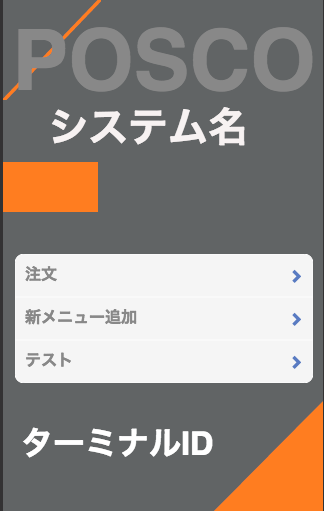
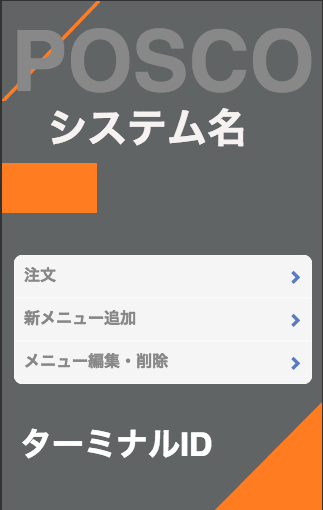
[FEATURE ADD] cuisine editable

diff --git a/TEST_BY_NAT/ModifyMenuController.m b/TEST_BY_NAT/ModifyMenuController.m
@@ -1,0 +1,136 @@
+//
+//  ModifyMenuController.m
+//  TEST_BY_NAT
+//
+//  Created by POSCO on 15/07/01.
+//  Copyright (c) 2015年 POSCO. All rights reserved.
+//
+
+#import "ModifyMenuController.h"
+#import "MyDB.h"
+
+@interface ModifyMenuController ()<UITableViewDataSource, UITableViewDelegate, UIAlertViewDelegate>
+@property (weak, nonatomic) IBOutlet UITableView *list;
+@property NSMutableArray * cusine;
+@property NSInteger selectedRow;
+@end
+
+@implementation ModifyMenuController
+
+// Handle Selected Cell
+- (void)tableView:(UITableView *)tableView didSelectRowAtIndexPath:(NSIndexPath *)indexPath {
+    self.selectedRow = indexPath.row;
+    UIAlertView * alert = [[UIAlertView alloc] initWithTitle:@"処理を選択してください" message:nil delegate:self cancelButtonTitle:@"戻る" otherButtonTitles:@"編集",@"削除", nil];
+    alert.delegate = self;
+    [alert setTag:1];
+    [alert show];
+    
+    
+}
+
+- (void)alertView:(UIAlertView *)alertView didDismissWithButtonIndex:(NSInteger)buttonIndex {
+    NSLog(@"%d", [alertView tag]);
+    switch ([alertView tag]) {
+        /* outter alert */
+        case 1:
+            
+            switch (buttonIndex) {
+                case 0:
+                    break;
+                case 1:
+                {
+                    UIAlertView * alert = [[UIAlertView alloc] initWithTitle:@"新名前を入力してください" message:nil delegate:self cancelButtonTitle:@"戻る" otherButtonTitles:@"保存", nil];
+                    alert.alertViewStyle = UIAlertViewStylePlainTextInput;
+                    UITextField * tf = [alert textFieldAtIndex:0];
+                    tf.placeholder = self.cusine[self.selectedRow];
+                    alert.delegate = self;
+                    [alert setTag:2];
+                    [alert show];
+                    break;
+                }
+                case 2:
+                    [MyDB deleteMenu:self.selectedRow + 1];
+                    break;
+            }
+            
+            break;
+            
+        /* inner alert */
+        case 2:
+            
+            switch (buttonIndex) {
+                case 0:
+                    break;
+                case 1:
+                {
+                    NSString * title = [alertView textFieldAtIndex:0].text;
+                    [MyDB updateMenuAtIndex:self.selectedRow+1 withTitle:title];
+                    NSLog(@"GO EDIT");
+                }
+            }
+                        
+            break;
+    }
+    
+}
+
+
+
+// Fill Cells
+- (NSInteger)tableView:(UITableView *)tableView numberOfRowsInSection:(NSInteger)section {
+    return self.cusine.count;
+}
+
+- (UITableViewCell *)tableView:(UITableView *)tableView cellForRowAtIndexPath:(NSIndexPath *)indexPath {
+    
+    static NSString *CellIdentifier = @"Cell";
+    UITableViewCell *cell = [tableView dequeueReusableCellWithIdentifier:CellIdentifier];
+    
+    if (!cell) {
+        cell = [[UITableViewCell alloc] initWithStyle:UITableViewCellStyleDefault
+                                      reuseIdentifier:CellIdentifier];
+    }
+    
+    cell.textLabel.text = self.cusine[indexPath.row];
+    
+    
+    /* Cell Style */
+    cell.backgroundColor = [UIColor colorWithRed:255 green:255 blue:255 alpha:100];
+    cell.textLabel.textColor = [UIColor colorWithRed:23 green:220 blue:110 alpha:30];
+    cell.textLabel.font = [UIFont fontWithName:@"Arial" size:15];
+    cell.textLabel.text = [NSString stringWithFormat:@"    %@", self.cusine[indexPath.row] ];
+    
+    return cell;
+}
+
+// Hide Empty Cell
+- (CGFloat)tableView:(UITableView *)tableView heightForRowAtIndexPath:(NSIndexPath *)indexPath {
+    NSString *dummy = @"";
+    if ([self.cusine[indexPath.row] isEqual:dummy]) return 0;
+    else return 35;
+}
+
+// Handle View
+- (id)initWithNibName:(NSString *)nibNameOrNil bundle:(NSBundle *)nibBundleOrNil
+{
+    self = [super initWithNibName:nibNameOrNil bundle:nibBundleOrNil];
+    if (self) {
+    }
+    return self;
+}
+
+- (void)viewDidLoad
+{
+    [super viewDidLoad];
+    self.list.delegate = self;
+    self.list.dataSource = self;
+    self.cusine = [MyDB findAllTitle];
+    NSLog(@"%@",self.cusine[0]);
+}
+
+- (void)didReceiveMemoryWarning
+{
+    [super didReceiveMemoryWarning];
+}
+
+@end

diff --git a/MyDB.m b/MyDB.m
@@ -30,6 +30,20 @@ NSString * const DB_NAME = @"tmp.db";
     [db close];
 }
 
++ (void)deleteMenu:(NSInteger) i {
+    FMDatabase * db = [self connect];
+    [db open];
+    [db executeStatements:[NSString stringWithFormat:@"DELETE FROM menu WHERE id = '%d'", i]];
+    [db close];
+}
+
++ (void)updateMenuAtIndex:(NSInteger)i withTitle:(NSString *)t {
+    FMDatabase * db = [self connect];
+    [db open];
+    [db executeStatements:[NSString stringWithFormat:@"UPDATE menu SET title='%@' WHERE id = '%d'", t, i]];
+    [db close];
+}
+
 + (void)executeUpdate:(NSString *)sql {
     FMDatabase *db = [self connect];
     [db open];
@@ -37,13 +51,62 @@ NSString * const DB_NAME = @"tmp.db";
     [db close];
 }
 
-+ (NSMutableArray *) getColumnOfIndex:(int)index FromTable:(NSString *)table {
-    NSMutableArray * result = [[NSMutableArray alloc] init];
-    NSString * sql = [NSString stringWithFormat:@"SELECT * FROM %@", table];
-    NSLog(@"%@",sql);
-    FMDatabase * db = [self connect];
++ (NSMutableArray *) findAllTitle {
+    
+    FMDatabase *db = [self connect];
+    FMResultSet * rs;
+    
+    int count = 1000;
+    
+/* 
+    Get Count of Row
+    
     [db open];
-    FMResultSet * rs = [db executeQuery:sql];
+    rs = [db executeQuery:@"SELECT COUNT(title) FROM menu"];
+    while ([rs next]) {
+        count = [rs intForColumnIndex:0];
+    }
+    [db close];
+*/
+
+    
+    
+    [db open];
+    rs = [db executeQuery:@"SELECT * FROM menu"];
+    NSString *dummy = @"";
+    NSMutableArray *result = [[NSMutableArray alloc] initWithCapacity:count];
+    for (int i=0; i<count; i++) {
+        [result addObject:dummy];
+    }
+    while ([rs next]) {
+        NSString *jap = [NSString stringWithUTF8String:[[rs stringForColumnIndex:1] UTF8String]];
+        
+        [result insertObject:jap atIndex:[rs intForColumnIndex:0]-1];
+    }
+    [db close];
+    NSLog(@"%@", result[0]);
+    return result;
+}
+
++ (NSMutableArray *) getColumnOfIndex:(int)index FromTable:(NSString *)table {
+    
+    FMDatabase * db = [self connect];
+
+    int count;
+    
+    // Get Count of Row
+    [db open];
+    FMResultSet * rs = [db executeQuery:@"SELECT COUNT(title) FROM menu"];
+    while ([rs next]) {
+        count = [rs intForColumnIndex:0];
+    }
+    [db close];
+    
+    NSMutableArray * result = [[NSMutableArray alloc] initWithCapacity:count++];
+    NSString * sql = [NSString stringWithFormat:@"SELECT * FROM %@", table];
+
+    [db open];
+    rs = [db executeQuery:sql];
     while ([rs next]) {
         NSString * jap = [NSString stringWithUTF8String:[[rs stringForColumnIndex:index] UTF8String]];
         [result addObject:jap];

diff --git a/MyDB.h b/MyDB.h
@@ -10,7 +10,10 @@
 #import "FMDatabase.h"
 @interface MyDB : NSObject 
 + (FMDatabase *) connect;
++ (NSMutableArray *) findAllTitle ;
 + (void) insertMenu:(NSString *) title ;
-+ (void) executeUpdate:(NSString *)sql;
++ (void) updateMenuAtIndex:(NSInteger) i withTitle:(NSString *) t;
++ (void) deleteMenu:(NSInteger) i ;
++ (void) executeUpdate:(NSString *) sql;
 + (NSMutableArray *) getColumnOfIndex:(int)index FromTable:(NSString *)table;
 @end

diff --git a/TEST_BY_NAT/AddMenuViewController.m b/TEST_BY_NAT/AddMenuViewController.m
@@ -60,7 +60,7 @@
 {
     [super viewDidLoad];
     // BG setup
-    UIImageView *background = [[UIImageView alloc] initWithImage:[UIImage imageNamed:@"order_bg.png"]];
+    UIImageView *background = [[UIImageView alloc] initWithImage:[UIImage imageNamed:@"addMenu.png"]];
     [background setOpaque:YES];
     [self.view addSubview:background];
     [self.view sendSubviewToBack:background];

diff --git a/TEST_BY_NAT/ModifyMenuController.h b/TEST_BY_NAT/ModifyMenuController.h
@@ -1,0 +1,13 @@
+//
+//  ModifyMenuController.h
+//  TEST_BY_NAT
+//
+//  Created by POSCO on 15/07/01.
+//  Copyright (c) 2015年 POSCO. All rights reserved.
+//
+
+#import <UIKit/UIKit.h>
+
+@interface ModifyMenuController : UIViewController
+
+@end
